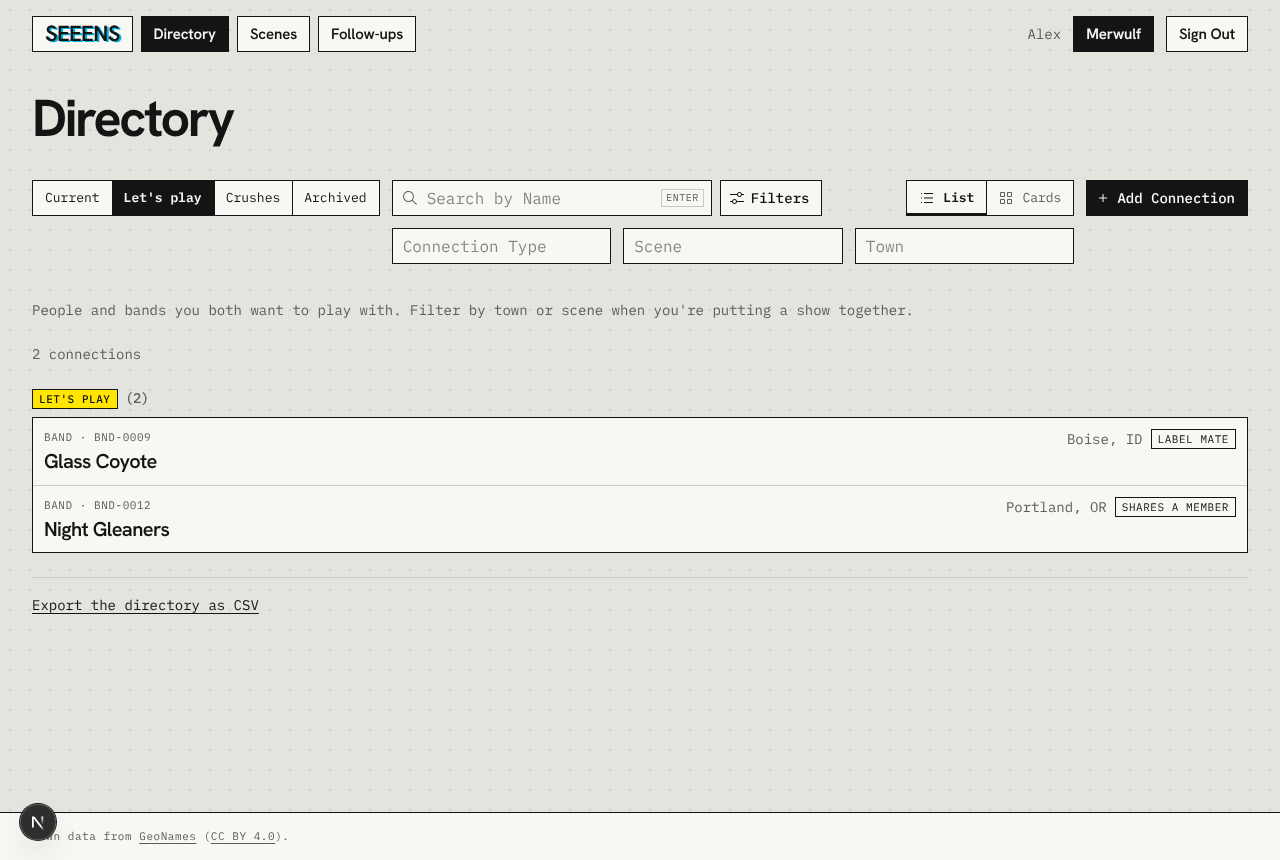
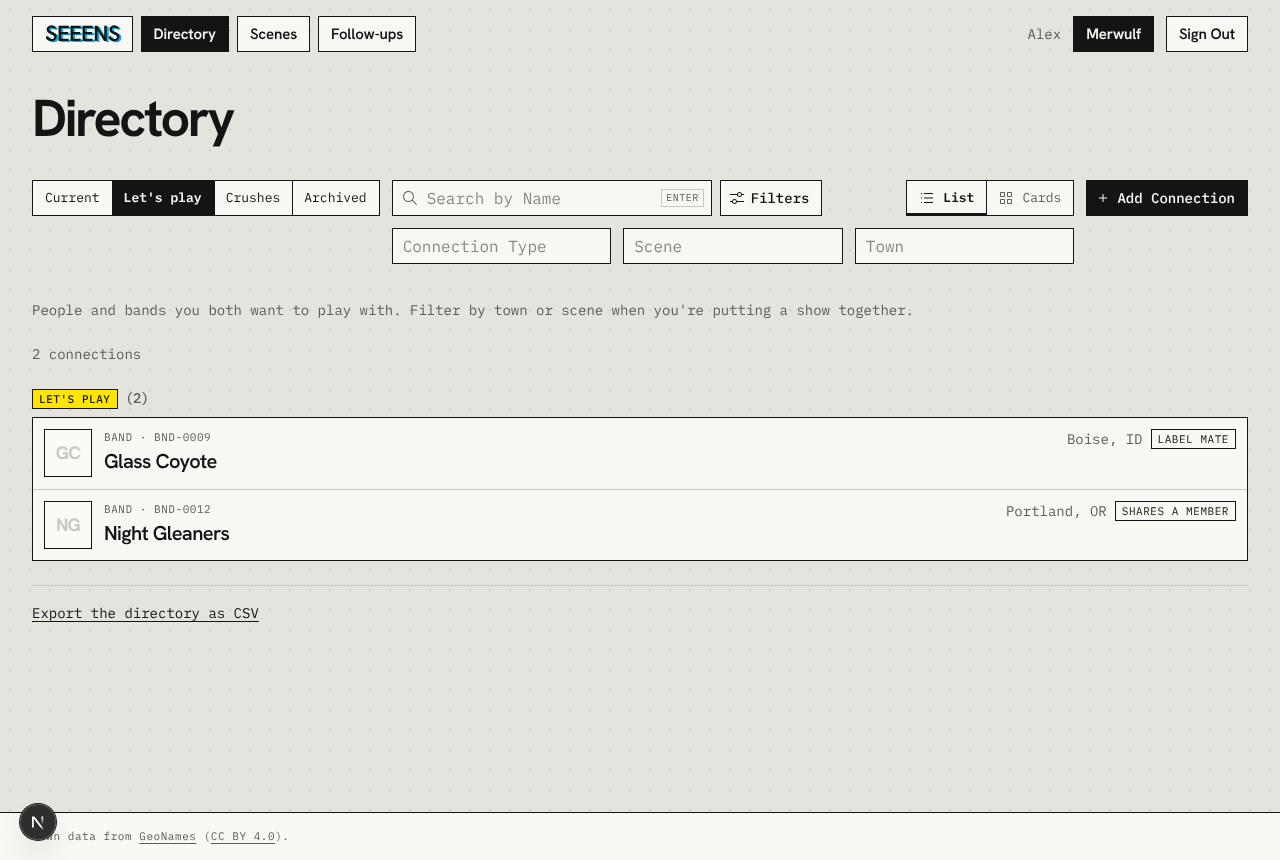
Plate offset slider and list row thumbnails
The copier gets a Plate offset slider (0 to 12px on a 600px copy;
photos saved before it keep 4px). Directory list rows show a 48px
thumbnail of the copy, or initials on photo paper. Also keeps the date
line's screen-reader text inside its clipped label, which could widen
the page on phones.

Claude-Session: https://claude.ai/code/session_01SMP6NnyPkRALtU7G1T7uNS

Changed region(s): [[0.0312, 0.4837, 0.1875, 0.6651], [0.7812, 0.5744, 0.9688, 0.6047], [0.0312, 0.6953, 0.2188, 0.7256]]

diff --git a/src/components/directory-results.tsx b/src/components/directory-results.tsx
@@ -8,7 +8,7 @@ import { useLayout } from "@/components/layout-toggle";
 import { loadMoreConnections } from "@/lib/connections/directory-actions";
 import type { Cursor, DirectoryItem, GroupCounts } from "@/lib/connections/directory";
 import { STATUSES, STATUS_LABELS, formatLocality, formatType } from "@/lib/connections/labels";
-import { catalogNo } from "@/lib/connections/card";
+import { catalogNo, initials } from "@/lib/connections/card";
 
 // The directory's rows or cards, grouped by status, a page at a time.
 // "Show More" fetches the next page and appends it in place; a group that
@@ -132,6 +132,17 @@ function ConnectionRows({ connections, today }: { connections: DirectoryItem[]; 
               href={`/connections/${c.id}`}
               className="flex flex-col gap-1 px-3 py-3 row-link sm:flex-row sm:items-start sm:justify-between sm:gap-4"
             >
+              <span className="flex min-w-0 items-start gap-3">
+              {/* The copied photo, or initials on photo paper. Decorative: the name is right beside it. */}
+              <span className="row-thumb" aria-hidden="true">
+                {c.photo_url ? (
+                  // Signed storage links change on every load, so next/image's cache wouldn't help.
+                  // eslint-disable-next-line @next/next/no-img-element
+                  <img src={c.photo_url} alt="" loading="lazy" decoding="async" />
+                ) : (
+                  <span className="row-thumb-initials">{initials(c.name)}</span>
+                )}
+              </span>
               <span className="flex min-w-0 flex-col gap-2">
                 {/* Name first for screen readers; type caption sits above it visually, like the Figma card. */}
                 <span className="flex flex-col-reverse gap-1">
@@ -143,6 +154,7 @@ function ConnectionRows({ connections, today }: { connections: DirectoryItem[]; 
                   </span>
                 </span>
                 <DateLines lastOutreach={c.outreach_entries[0]} nextAction={c.next_actions[0]} today={today} />
+              </span>
               </span>
               <span className="flex flex-wrap items-center gap-2 sm:justify-end">
                 {place ? <span className="text-sm text-muted">{place}</span> : null}

diff --git a/src/components/photo-copier.tsx b/src/components/photo-copier.tsx
@@ -5,7 +5,7 @@ import { createClient } from "@/lib/supabase/client";
 import { offline } from "@/lib/offline";
 import { COPY_MAX, ORIGINAL_MAX, copy, encode, hasWebGL, loadImage, resize } from "@/lib/photos/copier";
 import { discardUpload, removePhoto, savePhoto } from "@/lib/photos/actions";
-import { CONTRAST, GRIT, PLATES, type CopierSettings, type Plate } from "@/lib/photos/settings";
+import { CONTRAST, GRIT, OFFSET, PLATES, type CopierSettings, type Plate } from "@/lib/photos/settings";
 
 // Add or change a connection's photo (#37). Pick or drop a photo (phones get
 // the camera or library), tune the copier, and save. The copier runs here;
@@ -149,6 +149,7 @@ function CopierBody({
     saved.contrast !== settings.contrast ||
     saved.grit !== settings.grit ||
     saved.plate !== settings.plate ||
+    saved.offset !== settings.offset ||
     saved.seed !== settings.seed;
 
   function save() {
@@ -329,6 +330,30 @@ function CopierBody({
               ))}
             </div>
           </fieldset>
+
+          <div className="flex flex-col gap-1">
+            <div className="flex justify-between">
+              <label htmlFor={`${ids}-offset`} className="label">
+                Plate offset
+              </label>
+              <output htmlFor={`${ids}-offset`} className="label tabular-nums">
+                {settings.offset} px
+              </output>
+            </div>
+            <input
+              id={`${ids}-offset`}
+              type="range"
+              className="range"
+              {...OFFSET}
+              value={settings.offset}
+              disabled={!source || settings.plate === "none"}
+              aria-describedby={`${ids}-offset-hint`}
+              onChange={(e) => set("offset", Number(e.target.value))}
+            />
+            <p id={`${ids}-offset-hint`} className="text-sm text-muted">
+              How far the ink plate slips. At 0 it hides under the black.
+            </p>
+          </div>
 
           <label className="flex items-center gap-2 text-sm">
             <input

diff --git a/src/lib/photos/settings.ts b/src/lib/photos/settings.ts
@@ -12,12 +12,16 @@ export type CopierSettings = {
   /** Toner speckle and blots, 0 to 1. */
   grit: number;
   plate: Plate;
+  /** Plate misregistration in px, measured on a 600px-wide copy. */
+  offset: number;
   /** Which grain: "New grain" picks another. */
   seed: number;
 };
 
 export const CONTRAST = { min: 1, max: 4, step: 0.1 };
 export const GRIT = { min: 0, max: 1, step: 0.05 };
+export const OFFSET = { min: 0, max: 12, step: 1 };
+const DEFAULT_OFFSET = 4;
 
 // The plate starts on the status color, like the tape. Clear tape, no plate.
 const STATUS_PLATE: Record<ConnectionStatus, Plate> = {
@@ -29,7 +33,7 @@ const STATUS_PLATE: Record<ConnectionStatus, Plate> = {
 };
 
 export function defaultSettings(status: ConnectionStatus, isUs: boolean): CopierSettings {
-  return { contrast: 2.4, grit: 0.5, plate: isUs ? "none" : STATUS_PLATE[status], seed: 3 };
+  return { contrast: 2.4, grit: 0.5, plate: isUs ? "none" : STATUS_PLATE[status], offset: DEFAULT_OFFSET, seed: 3 };
 }
 
 const clamp = (n: number, min: number, max: number) => Math.min(max, Math.max(min, n));
@@ -41,10 +45,13 @@ export function readSettings(value: unknown): CopierSettings | null {
   if (typeof v.contrast !== "number" || typeof v.grit !== "number" || typeof v.seed !== "number") return null;
   if (!Number.isFinite(v.contrast) || !Number.isFinite(v.grit) || !Number.isFinite(v.seed)) return null;
   if (!PLATES.includes(v.plate as Plate)) return null;
+  // Photos saved before the offset slider used the fixed 4px.
+  const offset = typeof v.offset === "number" && Number.isFinite(v.offset) ? v.offset : DEFAULT_OFFSET;
   return {
     contrast: clamp(v.contrast, CONTRAST.min, CONTRAST.max),
     grit: clamp(v.grit, GRIT.min, GRIT.max),
     plate: v.plate as Plate,
+    offset: clamp(Math.round(offset), OFFSET.min, OFFSET.max),
     seed: clamp(Math.round(v.seed), 0, 999),
   };
 }

diff --git a/src/app/globals.css b/src/app/globals.css
@@ -856,6 +856,30 @@
     object-fit: cover;
   }
 
+  /* List row thumbnail: a 48px print beside the name. */
+  .row-thumb {
+    display: grid;
+    place-items: center;
+    flex-shrink: 0;
+    width: 48px;
+    height: 48px;
+    overflow: hidden;
+    border: var(--stroke-hair) solid var(--color-border-strong);
+    background: var(--color-bg-photo-paper);
+  }
+  .row-thumb > img {
+    width: 100%;
+    height: 100%;
+    object-fit: cover;
+  }
+  .row-thumb-initials {
+    font-family: var(--type-display);
+    font-weight: 700;
+    font-size: 18px;
+    letter-spacing: -0.04em;
+    color: var(--color-border-subtle);
+  }
+
   /* Connection header photo (Figma Connection view): a small square print
      that opens the copier. */
   .photo-thumb {
@@ -1122,6 +1146,8 @@
     font-weight: 600;
   }
   .date-line-label {
+    /* Contains its sr-only text, so a clipped label can't widen the page. */
+    position: relative;
     min-width: 0;
     overflow: hidden;
     text-overflow: ellipsis;

diff --git a/src/lib/photos/copier.ts b/src/lib/photos/copier.ts
@@ -132,8 +132,8 @@ export function copy(source: HTMLCanvasElement, target: HTMLCanvasElement, s: Co
   gl.uniform2f(u.res, source.width, source.height);
   gl.uniform1f(u.contrast, s.contrast);
   gl.uniform1f(u.toner, s.grit);
-  // The lab's 4px offset at 600px wide, kept in proportion.
-  gl.uniform1f(u.mis, Math.round((4 * Math.max(source.width, source.height)) / 600));
+  // Offset is set on a 600px-wide copy; keep it in proportion.
+  gl.uniform1f(u.mis, Math.round((s.offset * Math.max(source.width, source.height)) / 600));
   gl.uniform1f(u.seed, s.seed % 1000);
   gl.uniform1f(u.plateOn, s.plate === "none" ? 0 : 1);
   gl.uniform3fv(u.plate, PLATE_RGB[s.plate]);

diff --git a/docs/design-system/rules.md b/docs/design-system/rules.md
@@ -15,7 +15,7 @@ Status: phase 1 tokens are in. The source of truth is the [Seeens Figma file](ht
 - **Components:** `.panel`, `.window`, `.field`, `.button-primary` (ink), `.button-secondary` (paper; both invert on hover), `.choice` (a single checkbox that inverts when on), `.combo` (combobox: picked tags plus a filtering list, from `components/combobox.tsx`), `.save-bar` (pinned form actions), `.segmented`, `.tag` with `.tag-{status}`, `.nav-chip`, `.logo` (all caps, SemiBold, cyan misregister), `.label`, and `.caption`.
 - **Status and state colors:** Let's play is the yellow plate and Avoid/"Us" is an ink tag. Error red is `#b0002a`. Focus is a 2px ink outline plus a magenta glow. All are Figma variables (`color/status/*`, `color/text/error`, `color/border/error`, `color/focus/*`), and their code syntax matches the CSS names.
 - **Tape:** a strip with notched ends, multiplied over what it holds (`.tape` plus `.tape-clear`, `.tape-yellow`, `.tape-magenta`, or `.tape-cyan`). On a connection card it holds the print's top-right corner, 16px over the top and 10px past the edge, tilted up to 2° either way, seeded from the id. Its color matches the status tag: Homies magenta, Let's play yellow, Prospect cyan; Neutral, Avoid, and Us clear. Tape is decoration: `aria-hidden`, and never over text or a control.
-- **Photos:** every connection photo goes through the copier (xerox shader) once, in the browser, when it's added: contrast, toner grit, and an ink plate (None, C, M, Y) the member picks, plus New Grain. The plate starts on the status color, like the tape. The copy is a flat image; the resized original (no EXIF) is kept so it can be re-copied. Prints stay straight and fill their frame (`object-fit: cover`). Without a photo, the print shows initials on photo paper.
+- **Photos:** every connection photo goes through the copier (xerox shader) once, in the browser, when it's added: contrast, toner grit, an ink plate (None, C, M, Y), and how far the plate slips, plus New Grain. The plate starts on the status color, like the tape. The copy is a flat image; the resized original (no EXIF) is kept so it can be re-copied. Prints stay straight and fill their frame (`object-fit: cover`). Photos show as the card print, a 48px thumbnail in list rows, and the connection header. Without a photo, each shows initials on photo paper.
 - **Later phases:** cut-out edges and rub-down type texture.
 
 ## Character

diff --git a/README.md b/README.md
@@ -32,7 +32,7 @@ To regenerate them, run `npm run db:reset` and `npm run dev`, then `npm run scre
 - **Status:** one band-wide choice per connection: Homies, Let's play, Crush, Heard of, or Avoid, plus whether you've played together.
 - **Affiliations:** links between connections, such as who plays in which bands, who books which venue, or who works where, shown on each connection's detail page.
 - **Crushes:** mark connections you'd like to know as Crush and work through them in the Crushes view. The booking backlog gets its own Let's play view.
-- **Photos:** one photo per connection, run through the copier (a xerox look you tune: contrast, toner grit, and an ink plate) before it's saved. Location data is stripped in the browser, and photos stay in private storage.
+- **Photos:** one photo per connection, run through the copier (a xerox look you tune: contrast, toner grit, an ink plate, and its offset) before it's saved. Location data is stripped in the browser, and photos stay in private storage.
 - **Follow-through:** log outreach and keep one next action per connection, with a responsible member and an optional follow-up date. Follow-ups lists every open next action.
 - **Shared access:** authorized band members can work with the same private data across devices.
 - **Portability:** export the directory to CSV.
@@ -89,7 +89,7 @@ The MVP launched on November 1, 2026. What it does:
 - Status and "we've played together," saved as soon as you change them.
 - Affiliations between connections (members, labels, related bands, venues).
 - Outreach log, next actions, and the Follow-ups page.
-- Connection photos through the copier, shown on cards and the connection page.
+- Connection photos through the copier, shown on cards, list rows, and the connection page.
 - CSV export.
 - Error and not-found pages, and phase 1 design tokens from Figma.
 
